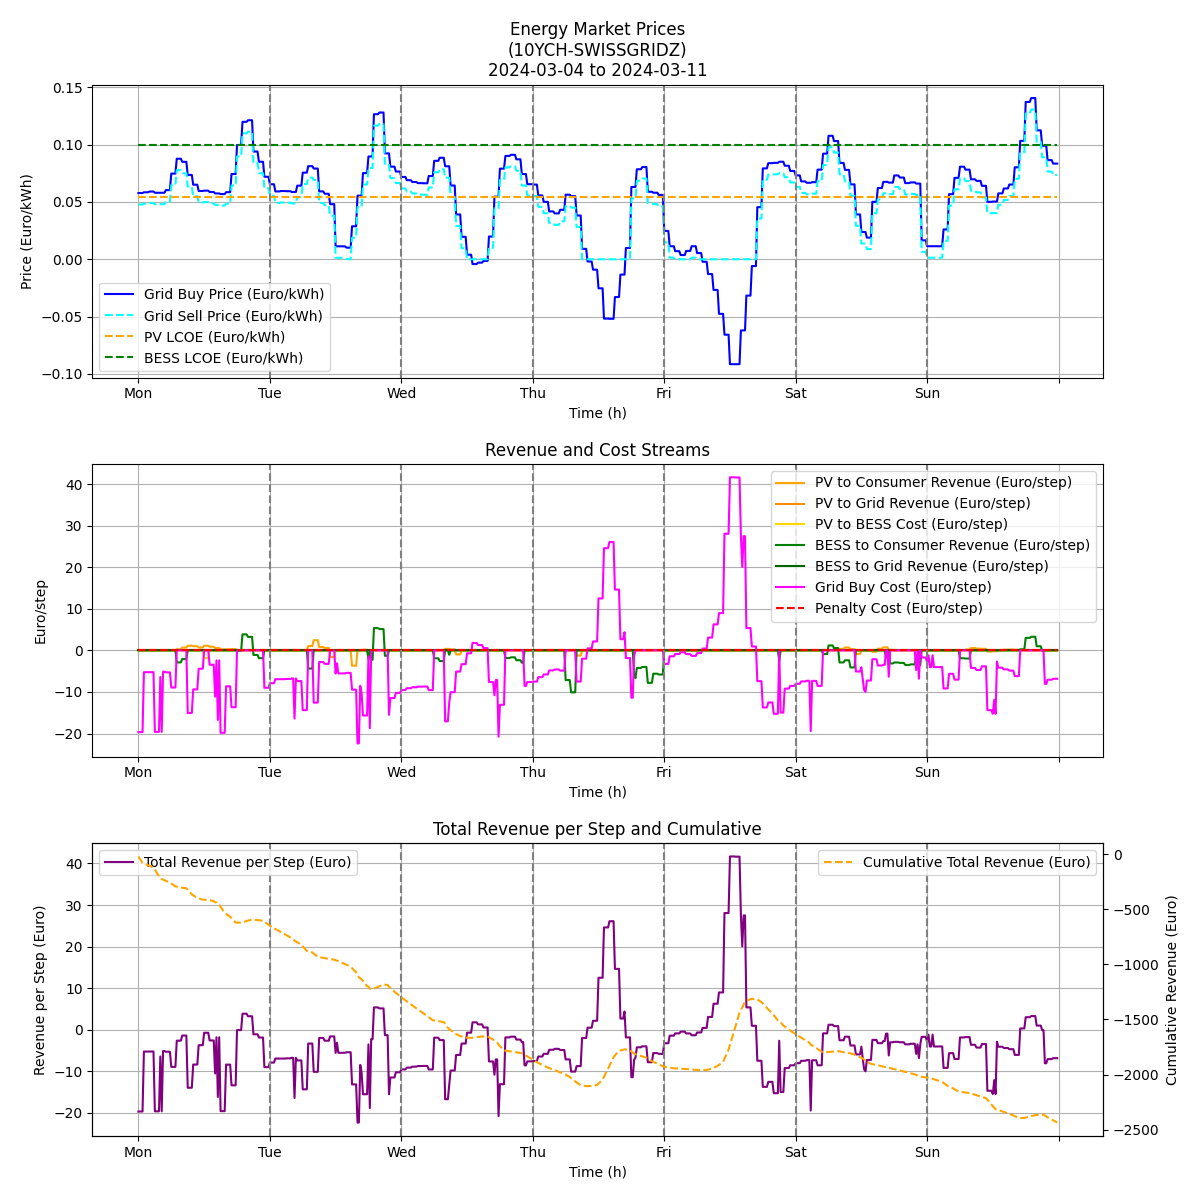
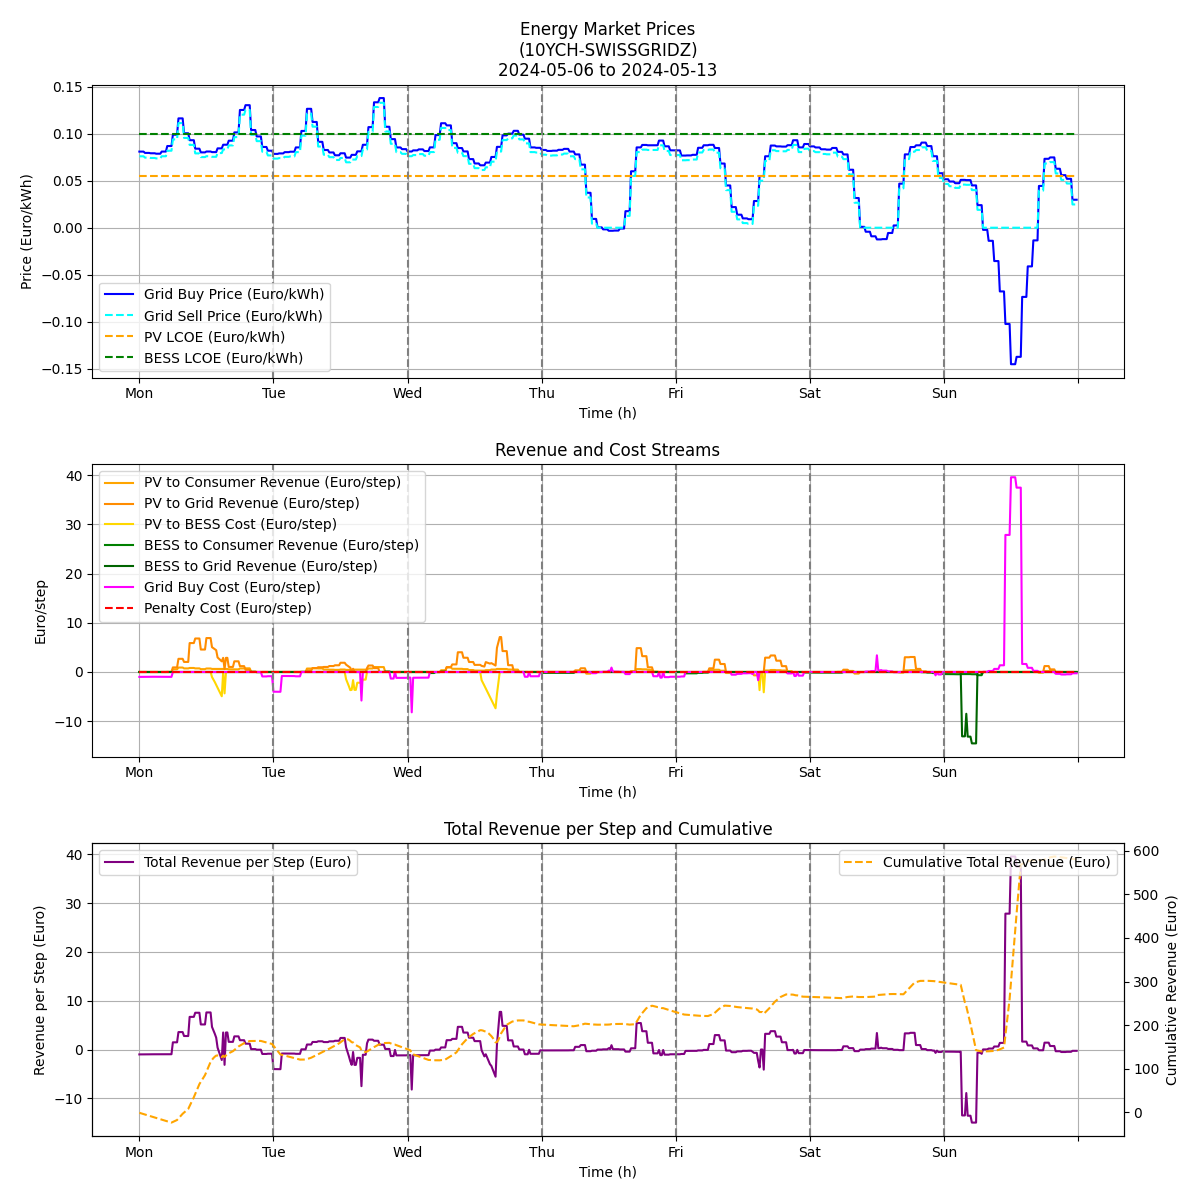
Update Data working on, pre copilot

diff --git a/Computing Files/load_data.py b/Computing Files/load_data.py
@@ -19,13 +19,25 @@ def sanity_check(data):
     return True
 
 def load_constants():
+    # Use relative path for portability; assume CSV in Input Data Files/ or adjust as needed
     script_dir = os.path.dirname(os.path.abspath(__file__))
-    csv_path = os.path.join(script_dir, '..', 'Input Data Files', 'Constants_Plant.csv')
+    csv_path = os.path.join(script_dir, '..', 'Input Data Files', 'Constants_Plant.csv')  # Adjust if structure changes
     constants_data = pd.read_csv(csv_path, comment='#')
     return constants_data
 
-def load(apply_pv_scaling=True):
+def load():
     constants_data = load_constants()
+    
+    # Parse PERIOD_START and PERIOD_END to datetimes (for consistent use across data)
+    period_start_str = constants_data[constants_data['Parameter'] == 'PERIOD_START']['Value'].iloc[0]
+    period_end_str = constants_data[constants_data['Parameter'] == 'PERIOD_END']['Value'].iloc[0]
+    start_dt = pd.to_datetime(period_start_str, format='%Y%m%d%H%M')
+    end_dt = pd.to_datetime(period_end_str, format='%Y%m%d%H%M')
+     
+    
+    # Validate: Exactly 7 days
+    if (end_dt - start_dt) != timedelta(days=7):
+        raise ValueError("PERIOD_START to PERIOD_END must span exactly 7 days.")
 
     timezone_offset = int(constants_data[constants_data['Parameter'] == 'TIMEZONE_OFFSET']['Value'].iloc[0])
     bess_capacity = float(constants_data[constants_data['Parameter'] == 'BESS_Capacity']['Value'].iloc[0])
@@ -38,31 +50,23 @@ def load(apply_pv_scaling=True):
     lcoe_bess = float(constants_data[constants_data['Parameter'] == 'LCOE_BESS']['Value'].iloc[0])
     pv_old = float(constants_data[constants_data['Parameter'] == 'PV_OLD']['Value'].iloc[0])
     pv_new = float(constants_data[constants_data['Parameter'] == 'PV_NEW']['Value'].iloc[0])
-    week_number = int(constants_data[constants_data['Parameter'] == 'WEEK_NUMBER']['Value'].iloc[0])
     bidding_zone = constants_data[constants_data['Parameter'] == 'BIDDING_ZONE']['Value'].iloc[0]
 
-    # Load price data (hourly)
+    # Fetch hourly grid prices (consistent with dates)
     grid_buy_price_raw, grid_sell_price_raw = API_prices.fetch_prices()
-    grid_buy_price_raw = grid_buy_price_raw[:168]
-    grid_sell_price_raw = grid_sell_price_raw[:168]
+    if len(grid_buy_price_raw) != 168:
+        raise ValueError(f"Expected 168 hourly prices, got {len(grid_buy_price_raw)}.")
     grid_buy_price = np.repeat(grid_buy_price_raw.values, 4)
     grid_sell_price = np.repeat(grid_sell_price_raw.values, 4)
 
-    # Load PV and demand data
-    result = pv_data.compute_pv_power(week_number)
-    pv_production = result['pv_production']
-
-    if apply_pv_scaling:
-        scaling_factor = (pv_old + pv_new) / pv_old
-        print(f"[INFO] PV production scaled by factor {scaling_factor:.3f}")
-        pv_production *= scaling_factor
-
-    pv_power = pv_production * (1 / delta_t)  # convert kWh/15min → kW
+    # Load PV and demand using the same start/end dates
+    result = pv_data.compute_pv_power(start_dt, end_dt)
+    pv_power = ((pv_new + pv_old)/pv_old) * result['pv_production'] * (1 / delta_t)  # convert kWh per 15 min → kW
     consumer_demand = result['consumer_demand'] * (1 / delta_t)
 
-    local_start_time = datetime(2024, 1, 1) + timedelta(days=(week_number - 1) * 7)
-    start_weekday = local_start_time.weekday()
-    period_str = f"{local_start_time.strftime('%Y-%m-%d')} to {(local_start_time + timedelta(days=7)).strftime('%Y-%m-%d')}"
+    # Use actual start_dt for weekday and period string
+    start_weekday = start_dt.weekday()
+    period_str = f"{start_dt.strftime('%Y-%m-%d')} to {end_dt.strftime('%Y-%m-%d')}"
 
     data = {
         'pv_power': pv_power,

diff --git a/Computing Files/pv_consumer_data_2024.py b/Computing Files/pv_consumer_data_2024.py
@@ -1,7 +1,7 @@
 import pandas as pd
 import os
 
-def compute_pv_power(week_number):
+def compute_pv_power(start_time, end_time):
     # Cross-platform, dynamic path to data file
     BASE_DIR = os.path.dirname(os.path.dirname(os.path.abspath(__file__)))
     DATA_PATH = os.path.join(BASE_DIR, 'Input Data Files', 'pv_FdM_2024.csv')
@@ -14,36 +14,27 @@ def compute_pv_power(week_number):
     for col in cols:
         df[col] = pd.to_numeric(df[col], errors='coerce').fillna(0)
 
-    # Resample to 15min intervals: distribute hourly energy equally over 4 intervals
-    df_15min = df[cols].resample('15min').ffill() / 4
+    # Resample to 15min intervals, forward-fill, and scale energy to 15min chunks
+    df_15min = df[cols].resample('15min').ffill()
+    df_15min = df_15min * 0.25  # Convert hourly kWh to 15-min kWh
 
-    # Calculate consumer demand in kWh per 15min
-    df_15min['consumer_demand'] = df_15min['InverterYield'] + df_15min['PurchasedFromNet'] - df_15min['GridFeedIn']
+    # Calculate consumer demand
+    df_15min['consumer_demand'] = (
+        df_15min['InverterYield'] +
+        df_15min['PurchasedFromNet'] -
+        df_15min['GridFeedIn']
+    )
 
-    start_time = df_15min.index[0] + pd.Timedelta(days=(week_number - 1) * 7)
-    end_time = start_time + pd.Timedelta(hours=167, minutes=45)
-    df_week = df_15min.loc[start_time:end_time]
+    # Ensure slicing returns exactly 672 steps
+    df_week = df_15min.loc[start_time:end_time - pd.Timedelta(minutes=15)]
 
     if len(df_week) != 672:
-        raise ValueError(f"Data slice for week {week_number} has {len(df_week)} entries, expected 672.")
+        raise ValueError(f"Data slice from {start_time} to {end_time} has {len(df_week)} entries, expected 672.")
 
     pv_production = df_week['InverterYield'].values
     consumer_demand = df_week['consumer_demand'].values
-
-    print(f"\n--- PV Production and Consumer Demand for Week {week_number} ---")
-    for i in range(len(pv_production)):
-        timestamp = (start_time + pd.Timedelta(minutes=15 * i)).strftime('%Y-%m-%d %H:%M')
-        print(f"{timestamp} | PV: {pv_production[i]:.2f} kWh | Demand: {consumer_demand[i]:.2f} kWh")
 
     return {
         'pv_production': pv_production,
         'consumer_demand': consumer_demand
     }
-
-# Run the function directly when this script is executed
-if __name__ == "__main__":
-    BASE_DIR = os.path.dirname(os.path.dirname(os.path.abspath(__file__)))
-    CONSTANTS_PATH = os.path.join(BASE_DIR, 'Input Data Files', 'Constants_Plant.csv')
-    constants_df = pd.read_csv(CONSTANTS_PATH)
-    week_number = int(constants_df[constants_df['Parameter'] == 'WEEK_NUMBER']['Value'].iloc[0])
-    compute_pv_power(week_number)

diff --git a/Computing Files/Reference.py b/Computing Files/Reference.py
@@ -61,12 +61,11 @@ results = {
 revenues = post_process.compute_revenues(results, data)
 post_process.print_results(revenues, results, data)
 
-# Add suffix to distinguish plots
-data['plot_suffix'] = '_Reference'
-
 # Generate plots
 days = ['Mon', 'Tue', 'Wed', 'Thu', 'Fri', 'Sat', 'Sun']
 data['day_labels'] = [days[(data['start_weekday'] + d) % 7] for d in range(8)]
 
+# Add suffix to distinguish plots
+data['plot_suffix'] = '_Reference'
 plots.plot_energy_flows(results, data, revenues)
 plots.plot_financials(revenues, data)

diff --git a/Computing Files/API_prices.py b/Computing Files/API_prices.py
@@ -48,7 +48,7 @@ def fetch_prices():
     buy_prices_raw = get_price_document("A44")  # Day-ahead prices
 
     # Adapt sell prices by subtracting 0.01 from buy prices (as per instructions)
-    sell_prices_raw = [max(0, p - 0.005) for p in buy_prices_raw]  # Ensure non-negative, optional
+    sell_prices_raw = [p - 0.005 for p in buy_prices_raw]  # Ensure non-negative, optional
 
     # Clip to exactly 168 hours (7 days)
     buy_prices = buy_prices_raw[:168]
